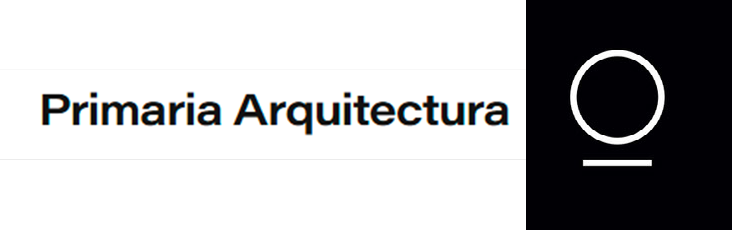
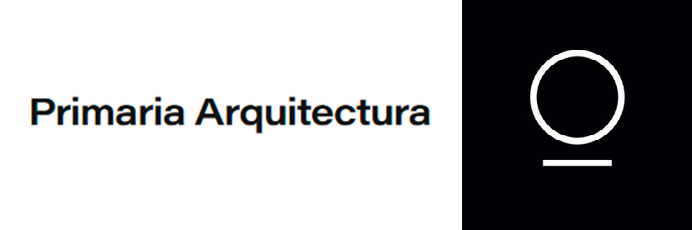
01

diff --git a/03.contacto.html b/03.contacto.html
@@ -468,7 +468,8 @@
             <div class="logo-slide">
                 <a href="https://www.monolito.cl/" target="_blank" rel="noopener noreferrer">
                     <img src="images/COLABORACIONES/Monolitologo01.png"
-                         alt="Monolito">
+                         alt="Monolito"
+                         style="transform: scale(0.75);">
                 </a>
             </div>
 
@@ -490,7 +491,8 @@
             <div class="logo-slide">
                 <a href="https://www.behance.net/primariaa" target="_blank" rel="noopener noreferrer">
                     <img src="images/COLABORACIONES/PRIMARIA.png"
-                         alt="Primaria Arquitectos">
+                         alt="Primaria Arquitectos"
+                         style="transform: scale(1.3);">
                 </a>
             </div>
 
